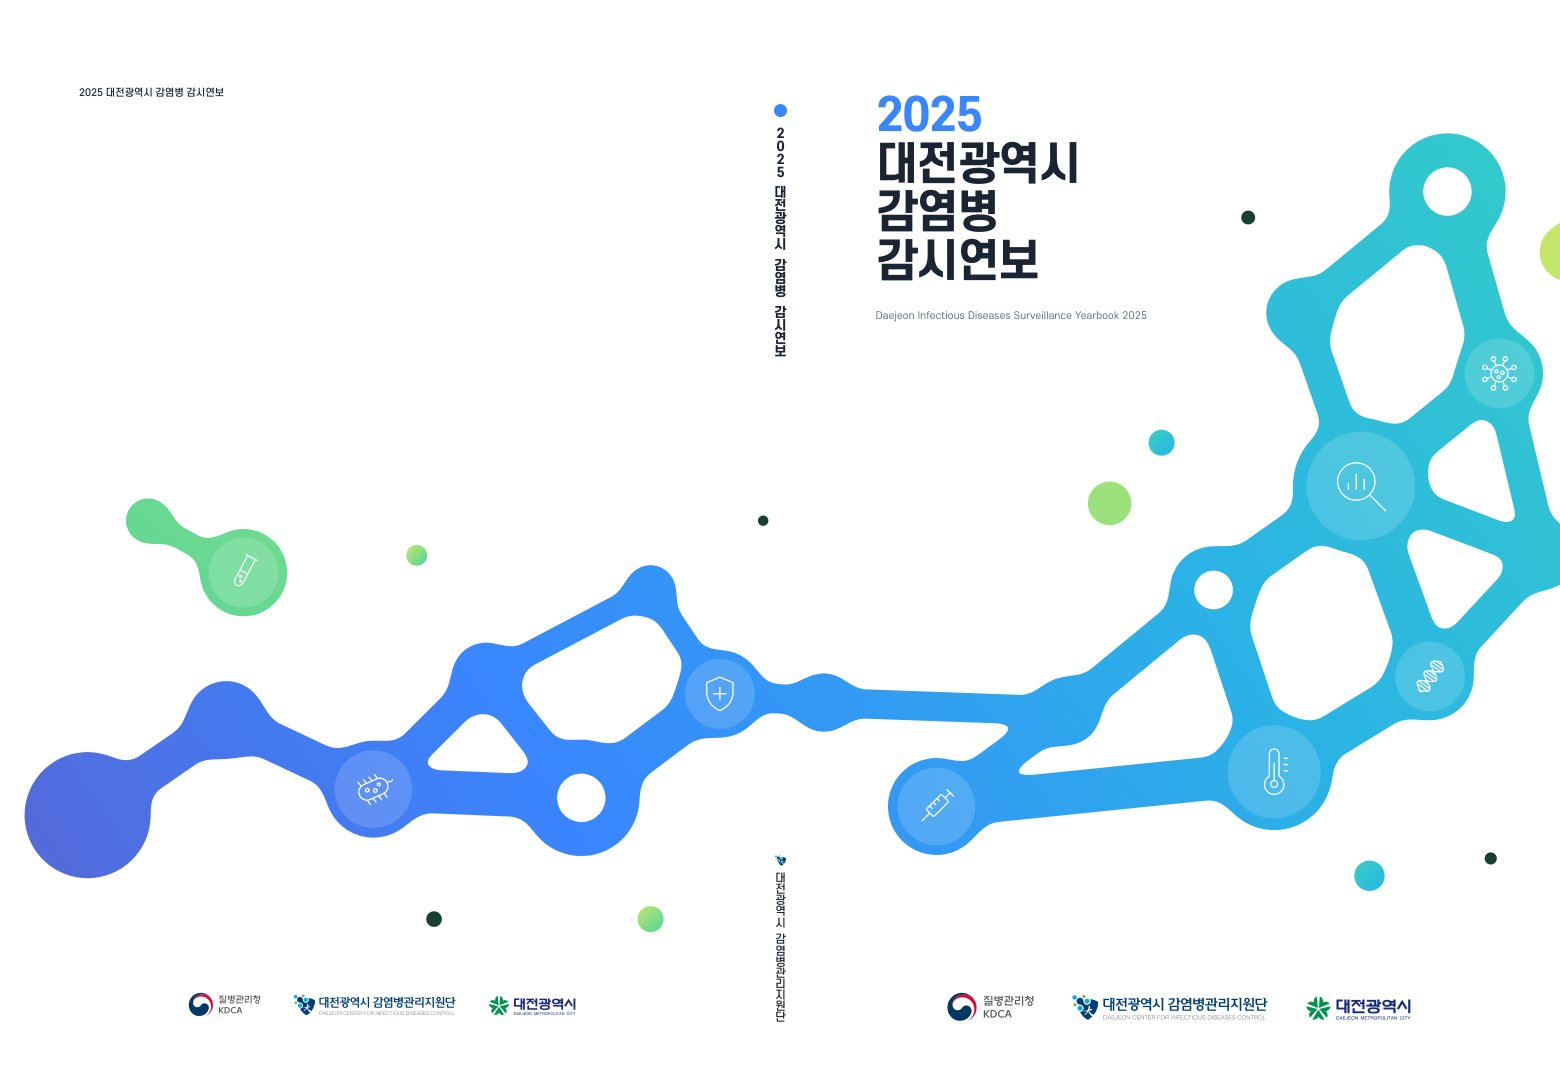
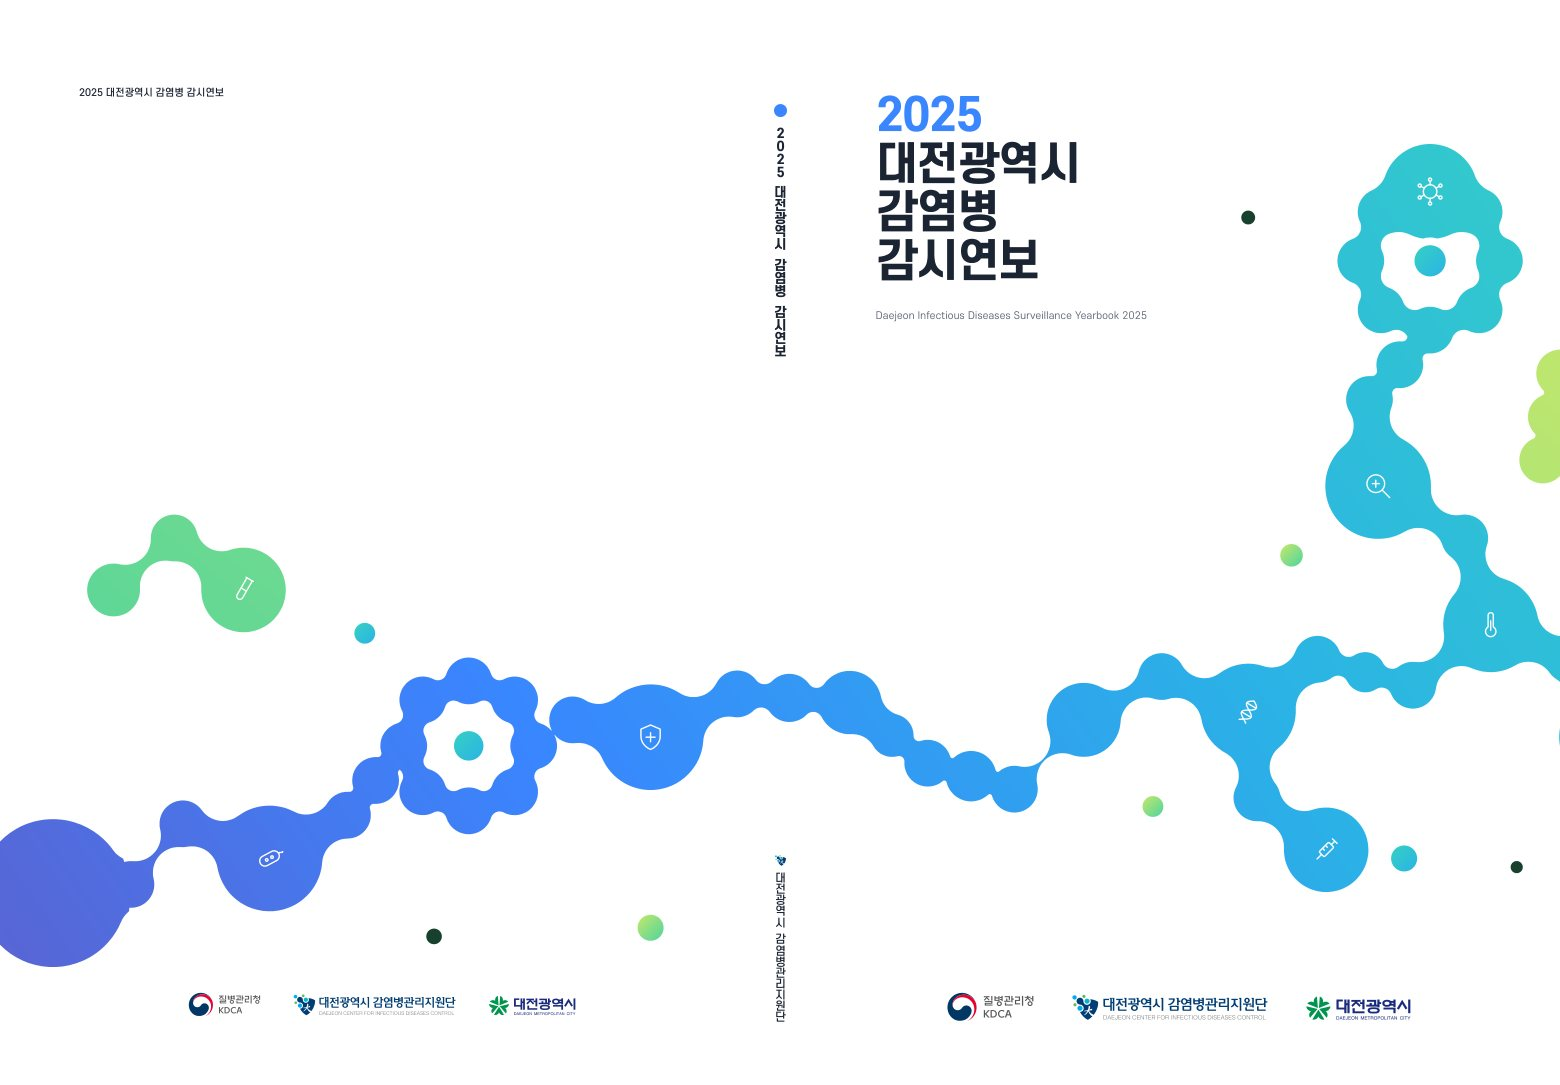
3안: 원+오목 다리 메타볼 규칙으로 다시 그림, 아이콘 선만·같은 크기

diff --git a/index.html b/index.html
@@ -170,10 +170,10 @@ const PLANS = {
   "3": {
     name: "3안", title: "연결 네트워크",
     tagline: "흩어진 신고가 이어져 하나의 감시망이 된다",
-    concept: "지역 곳곳의 신고 한 건 한 건을 원으로, 그 신고를 잇는 보고·역학조사·관리 체계를 부드러운 연결로 그린 안입니다. 원과 연결이 녹아 하나로 이어지는 모습은, 개별 사례가 모여 대전시 전체의 감염병 관리망을 이룬다는 뜻입니다. 원 안의 흰 선 아이콘은 전년도 표지의 의료 아이콘을 이어받아, 무엇을 감시하는 책인지 한눈에 알려 줍니다.",
+    concept: "지역 곳곳의 신고 한 건 한 건을 원으로, 그 신고를 잇는 보고·역학조사·관리 체계를 잘록한 다리로 그린 안입니다. 원끼리 녹아 이어진 모습은, 개별 사례가 모여 대전시 전체의 감염병 관리망을 이룬다는 뜻입니다. 큰 원 위의 흰 선 아이콘은 전년도 표지의 의료 아이콘을 이어받아, 무엇을 감시하는 책인지 한눈에 알려 줍니다.",
     meaning: [
-      ["원과 연결", "원은 신고된 사례와 의료기관·보건소 같은 현장을, 부드러운 연결은 그 사이를 오가는 신고·보고 체계를 뜻합니다. 끊김 없이 녹아 이어진 형태로 '빠짐없이 연결된 감시'를 표현했습니다."],
-      ["원 안의 흰 선 아이콘", "폐·현미경·DNA·세균·바이러스·주사기 같은 의료 아이콘을 흰 가는 선으로 작게 넣었습니다. 그래픽을 해치지 않으면서 결핵·감염병이라는 주제를 바로 읽히게 합니다."],
+      ["원과 잘록한 다리", "원은 신고된 사례와 의료기관·보건소 같은 현장을, 원 사이의 오목한 다리는 그 사이를 오가는 신고·보고 체계를 뜻합니다. 곧은 막대 없이 원끼리 녹아 붙은 형태로 '빠짐없이 연결된 감시'를 부드럽게 표현했습니다."],
+      ["흰 선 아이콘", "폐·현미경·DNA·세균·바이러스·주사기 같은 의료 아이콘을 흰 선만으로, 모두 같은 크기로 큰 원 위에 얹었습니다. 선을 단순하게 줄여 그래픽을 해치지 않으면서 결핵·감염병이라는 주제를 바로 읽히게 합니다."],
       ["두 권, 다른 패턴", "결핵연보는 한 줄로 길게 이어지는 '사슬'로, 오랜 기간 추적·관리하는 결핵의 특성을 담았습니다. 감시연보는 고리가 섞인 '그물'로, 여러 감염병을 동시에 살피는 감시망을 표현했습니다."],
       ["2색 이상의 그라데이션", "결핵연보는 주황·코랄·핑크·보라의 따뜻한 배색, 감시연보는 청록·하늘·파랑·남보라의 차가운 배색에 각각 다른 계열의 작은 덩어리(노랑, 연두)를 더했습니다. 보조색은 작은 원에만 씁니다."]
     ],
